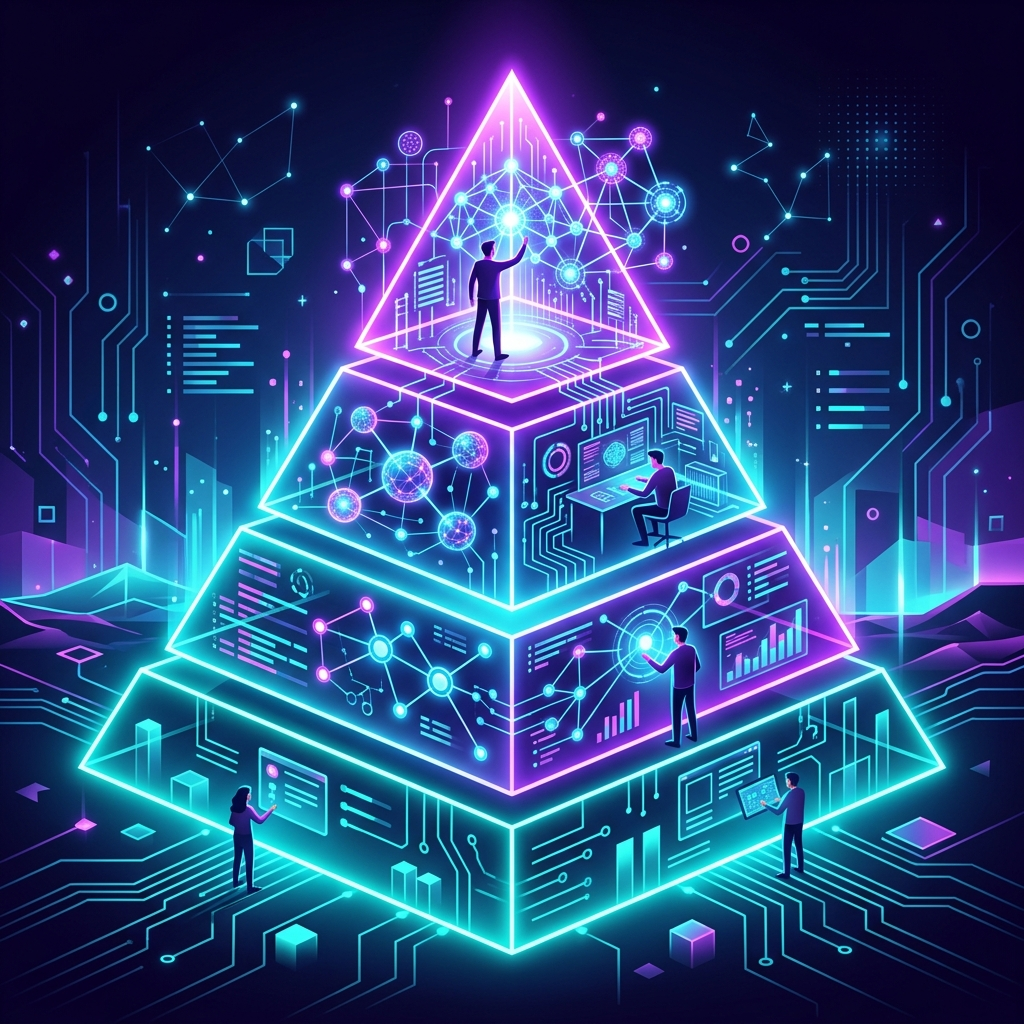
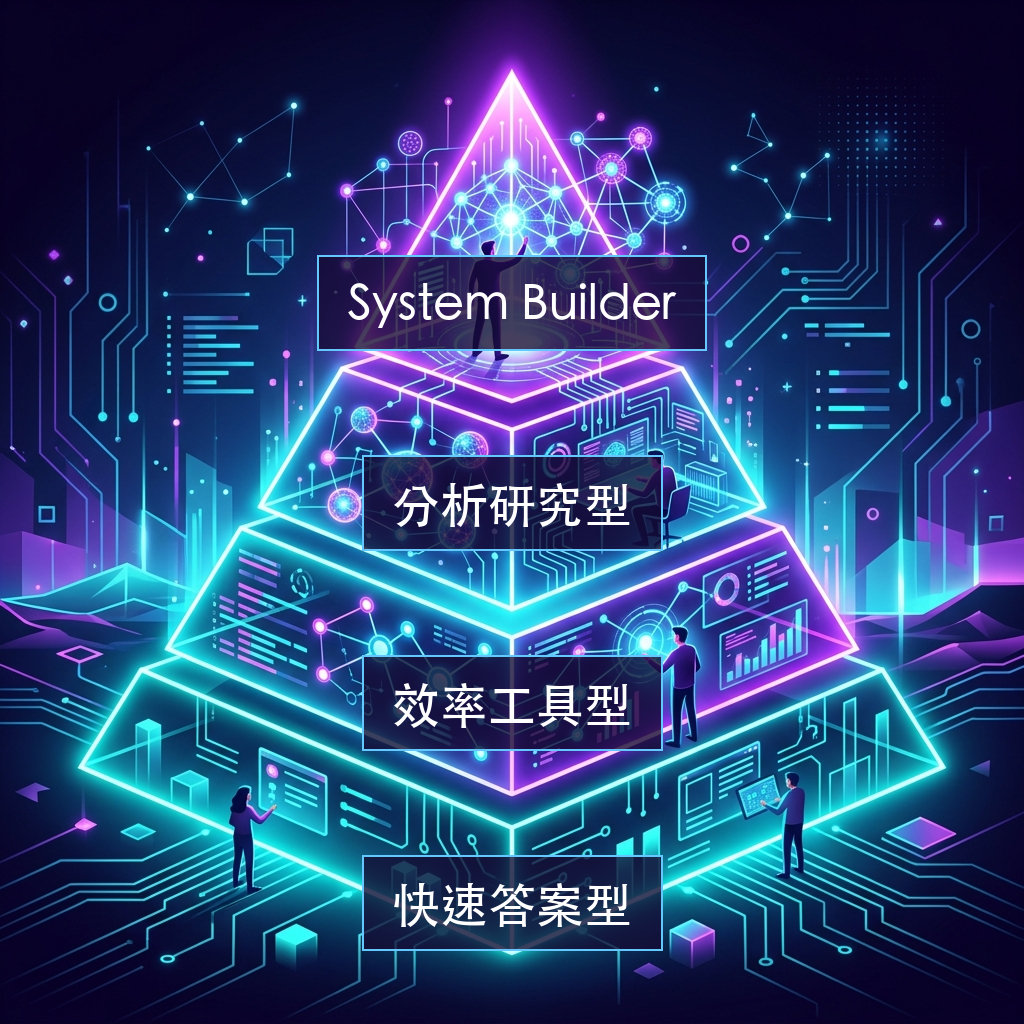
fix(blog): add text to ai-users-levels illustration

diff --git a/add_text_ai_levels.py b/add_text_ai_levels.py
@@ -1,0 +1,85 @@
+from PIL import Image, ImageDraw, ImageFont
+import os
+
+font_path = "/System/Library/Fonts/STHeiti Medium.ttc"
+image_path = "/Users/yuting/Documents/GitHub/hugo/link-blog/static/images/ai-users-levels.png"
+
+try:
+    img = Image.open(image_path)
+    # Ensure image is in RGBA so we can do transparent overlay
+    img = img.convert("RGBA")
+    
+    # Create an overlay layer for transparent backgrounds
+    overlay = Image.new('RGBA', img.size, (255, 255, 255, 0))
+    d = ImageDraw.Draw(overlay)
+    
+    # Try to load font
+    try:
+        font_size = 48
+        font = ImageFont.truetype(font_path, font_size)
+    except IOError:
+        print(f"Could not load font. Make sure {font_path} exists.")
+        exit(1)
+        
+    draw = ImageDraw.Draw(img)
+    
+    # Levels and their approximate Y coordinates (from top to bottom)
+    levels = [
+        {"text": "System Builder", "y": 280},
+        {"text": "分析研究型", "y": 480},
+        {"text": "效率工具型", "y": 680},
+        {"text": "快速答案型", "y": 880}
+    ]
+    
+    image_width = img.width
+    
+    for level in levels:
+        text = level["text"]
+        
+        # Calculate text bounding box
+        # getbbox returns (left, top, right, bottom)
+        bbox = font.getbbox(text)
+        text_width = bbox[2] - bbox[0]
+        text_height = bbox[3] - bbox[1]
+        
+        # Center horizontally
+        x = (image_width - text_width) / 2
+        y = level["y"]
+        
+        # Draw background rectangle
+        padding_x = 30
+        padding_y = 15
+        rect_left = x - padding_x
+        rect_top = y - padding_y - 10  # offset a bit for box alignment
+        rect_right = x + text_width + padding_x
+        rect_bottom = y + text_height + padding_y + 10
+        
+        # Draw semi-transparent rounded-like rect on overlay
+        d.rectangle(
+            [rect_left, rect_top, rect_right, rect_bottom], 
+            fill=(20, 10, 50, 200),  # Dark purple tint with opacity
+            outline=(100, 200, 255, 255),  # Cyan glow edge
+            width=2
+        )
+    
+    # Merge overlay with original image
+    out = Image.alpha_composite(img, overlay)
+    
+    # Draw text on the composited image
+    final_draw = ImageDraw.Draw(out)
+    for level in levels:
+        text = level["text"]
+        bbox = font.getbbox(text)
+        text_width = bbox[2] - bbox[0]
+        x = (image_width - text_width) / 2
+        y = level["y"]
+        
+        final_draw.text((x, y), text, font=font, fill=(255, 255, 255, 255))
+        
+    # Drop alpha and save
+    out = out.convert("RGB")
+    out.save(image_path)
+    print("Successfully added text to the image!")
+
+except Exception as e:
+    print(f"Error: {e}")
